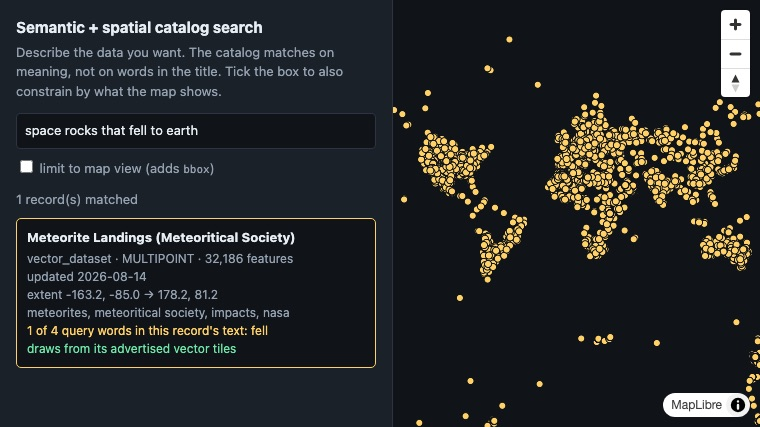
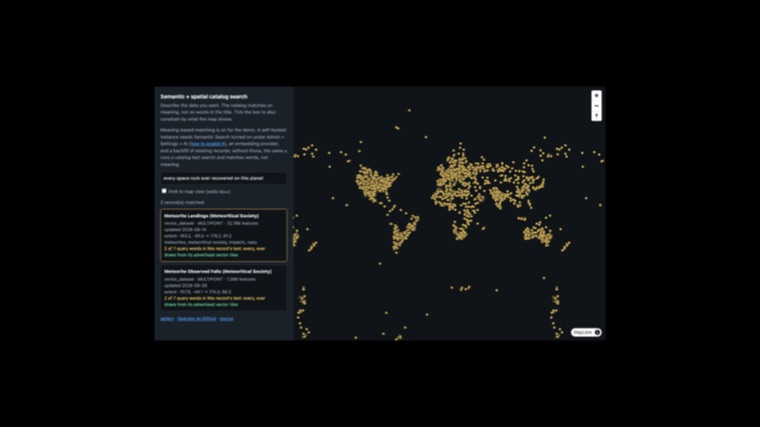
feat(maplibre): read a live PMTiles export URL straight from the demo
GeoLens 1.16.1 put CORS on the export route for anonymous browser
clients, the piece #45 noted was missing. maplibre/pmtiles-live.html
points the pmtiles protocol at the demo's Meteorite Observed Falls
export (1,096 points, a 631,691-byte archive) and range-reads it across
origins: the header, the directories, then only the tiles in view. The
same bytes=0-0 probe as the committed-file page decides the read mode,
because GeoLens may answer a range with the whole file while the
artifact is being rebuilt (geolens#1585). The committed-file page stays
as the static-hosting story; the two pages cross-link, and pmtiles.html
no longer claims the route sends no CORS headers.

Registered everywhere a page must be: README table, gallery card with a
thumb, ci/manifest.json, and a ci/fixtures.json fixture that probes the
collection and the export anonymously with a Range header, the way the
page reads it.

The dataset behind the page also moved the semantic search ranking:
"space rocks that fell to earth" now puts the Falls subset above
Meteorite Landings on both search routes, which broke every example
that takes the first hit, including the notebook's top-hit assert. The
query is now "every space rock ever recovered on this planet" in all
seven files that write it down, measured to rank Landings first on both
routes, and assets/search-catalog.jpg is re-captured with it typed in.

diff --git a/maplibre/pmtiles-live.html b/maplibre/pmtiles-live.html
@@ -1,0 +1,161 @@
+<!DOCTYPE html>
+<html lang="en">
+<head>
+  <meta charset="utf-8" />
+  <title>GeoLens + MapLibre: PMTiles from a live export URL</title>
+  <meta name="viewport" content="width=device-width, initial-scale=1" />
+  <link rel="icon" href="data:," />
+  <script src="https://unpkg.com/maplibre-gl@5.24.0/dist/maplibre-gl.js"></script>
+  <link href="https://unpkg.com/maplibre-gl@5.24.0/dist/maplibre-gl.css" rel="stylesheet" />
+  <script src="https://unpkg.com/pmtiles@4.5.0/dist/pmtiles.js"></script>
+  <style>
+    html, body, #map { margin: 0; height: 100%; }
+    /* Page shell: what this is, whether it loaded, where the data came from. */
+    #hud { position: absolute; z-index: 2; left: 10px; bottom: 10px; max-width: 46ch; padding: 8px 11px; border-radius: 6px; background: rgba(11, 14, 18, .82); color: #e6edf3; font: 13px/1.45 ui-sans-serif, system-ui, sans-serif; }
+    #hud p { margin: 3px 0 0; font-size: 12px; color: #93a1b0; }
+    #hud a { color: #4da3ff; }
+    #hud .err { color: #ff9d9d; }
+  </style>
+</head>
+<body>
+<div id="map"></div>
+<div id="hud">
+  <strong>MapLibre GL JS — PMTiles from a live export URL</strong>
+  <p id="status" role="status">Opening the live export…</p>
+  <p id="freshness"></p>
+  <p>Meteoritical Society via NASA Open Data · <a href="https://demo.getgeolens.com/datasets/dacc5f80-3ace-4cc9-a5ca-d7724a7e4bc1">dataset</a> · <a href="pmtiles.html">committed-file variant</a> · <a href="../index.html">gallery</a> · <a href="https://github.com/geolens-io/geolens">GeoLens on GitHub</a> · <a href="https://github.com/geolens-io/geolens-examples/blob/main/maplibre/pmtiles-live.html">source</a></p>
+</div>
+<script>
+  // The sibling page, pmtiles.html, commits its PMTiles file next to itself:
+  // export once, copy to any static host, GeoLens out of the serving path.
+  // This page skips the copy. The pmtiles protocol points straight at the
+  // export URL on the demo, and range-reads the archive across origins: the
+  // header, the directories, then only the tiles in view.
+  //
+  // That works because GeoLens 1.16.1 put CORS on the export route for
+  // anonymous browser clients — Access-Control-Allow-Origin on the ranged
+  // GETs, a preflight that allows the Range header, and Content-Range exposed
+  // so the client can address the file. Against an older instance the fetch
+  // dies in the browser's CORS check before a byte arrives; the committed-file
+  // page is the variant that works on any static host and any GeoLens with
+  // the export format (1.16.0 on).
+  //
+  // The trade the two pages make is freshness against custody. A committed
+  // file is a snapshot you re-export by hand; this page serves whatever the
+  // export route holds, and GeoLens stays in the serving path to do it. The
+  // whole archive is ~630 KB — 1,096 witnessed meteorite falls tiled for the
+  // browser to read a few KB at a time.
+  const GEOLENS = "https://demo.getgeolens.com";
+  const DATASET = "dacc5f80-3ace-4cc9-a5ca-d7724a7e4bc1";
+  const EXPORT_URL = `${GEOLENS}/api/datasets/${DATASET}/export?format=pmtiles`;
+
+  const status = document.getElementById("status");
+  const freshness = document.getElementById("freshness");
+  const fail = (message) => {
+    status.hidden = false;
+    status.className = "err";
+    status.textContent = message;
+  };
+
+  // Same probe as the committed-file page, for a different reason. There the
+  // question is whether the static host honours ranges at all; here GeoLens
+  // always can, but is entitled to answer a range with the whole file while
+  // the export artifact is being rebuilt (geolens#1585). bytes=0-0 asks for a
+  // single byte: on a 206 the PMTiles(url) path ranges into the route as it
+  // needs to; on a 200 the body has already been sent, so read it once into
+  // memory and say so.
+  async function loadFile() {
+    const probe = await fetch(EXPORT_URL, { headers: { range: "bytes=0-0" } });
+    if (probe.status === 206) {
+      probe.body?.cancel();
+      return { file: new pmtiles.PMTiles(EXPORT_URL), ranged: true, size: null };
+    }
+    if (!probe.ok) throw new Error(`the export answered HTTP ${probe.status}`);
+    const blob = await probe.blob();
+    return { file: new pmtiles.PMTiles(new pmtiles.FileSource(new File([blob], "export.pmtiles"))), ranged: false, size: blob.size };
+  }
+
+  const protocol = new pmtiles.Protocol();
+  maplibregl.addProtocol("pmtiles", protocol.tile);
+
+  (async () => {
+    const { file, ranged, size } = await loadFile();
+    protocol.add(file);
+
+    // The export describes itself: bounds and zooms come from its header, the
+    // source-layer name from its metadata. Nothing on this page repeats a
+    // fact the archive already carries.
+    const header = await file.getHeader();
+    const meta = await file.getMetadata();
+    const layerId = meta.vector_layers[0].id; // "data.meteorite_observed_falls_meteoritical_society"
+
+    const map = new maplibregl.Map({
+      container: "map",
+      bounds: [[header.minLon, header.minLat], [header.maxLon, header.maxLat]],
+      fitBoundsOptions: { padding: 32 },
+      style: {
+        version: 8,
+        sources: {
+          falls: { type: "vector", url: `pmtiles://${file.source.getKey()}` },
+        },
+        layers: [
+          { id: "bg", type: "background", paint: { "background-color": "#101418" } },
+          {
+            id: "meteorite-falls",
+            type: "circle",
+            source: "falls",
+            "source-layer": layerId,
+            paint: {
+              "circle-radius": 3,
+              "circle-color": "#ffd166",
+              "circle-stroke-color": "#101418",
+              "circle-stroke-width": 1,
+            },
+          },
+        ],
+      },
+    });
+    map.addControl(new maplibregl.NavigationControl());
+
+    map.on("data", (e) => {
+      if (!e.tile || e.sourceId !== "falls") return;
+      if (status.className === "err") return;
+      status.className = "";
+      status.textContent = ranged
+        ? "Range-reading the live export across origins: the header, then only the tiles in view."
+        : `The export declined the range and sent the whole file (${(size / 1024).toFixed(0)} KB) — GeoLens does that while the artifact is being rebuilt — so it was read once into memory.`;
+    });
+    map.on("error", (e) => {
+      fail(`Could not draw the export — ${e.error?.message ?? "request failed"}.`);
+      console.error("PMTiles rendering failed:", e.error ?? e);
+    });
+
+    // The export artifact is cut from the dataset and cached, so it can trail
+    // a reload the way the committed file trails an export. Ask the live
+    // catalog how many features the collection matches now and compare with
+    // what this archive was cut from.
+    try {
+      const res = await fetch(`${GEOLENS}/api/collections/${DATASET}/items?limit=1`);
+      if (!res.ok) throw new Error(`HTTP ${res.status}`);
+      const live = (await res.json()).numberMatched;
+      const cut = meta.tilestats?.layers?.[0]?.count;
+      freshness.textContent =
+        live === cut
+          ? `Live catalog check: the collection still matches the ${cut} features this export was cut from.`
+          : `Live catalog check: the collection now matches ${live} features; this export was cut from ${cut}. GeoLens rebuilds it after the dataset changes.`;
+    } catch (err) {
+      freshness.textContent = `Could not compare against the live catalog (${err.message}).`;
+    }
+  })().catch((err) => {
+    // A TypeError from fetch with nothing more to say is how every browser
+    // words a CORS refusal, which against GeoLens older than 1.16.1 is the
+    // expected way for this page to fail.
+    const cors = err instanceof TypeError
+      ? " A cross-origin read of the export route needs GeoLens 1.16.1 or later; against an older instance, use the committed-file variant (pmtiles.html)."
+      : "";
+    fail(`Could not open the live export — ${err.message}.${cors}`);
+    console.error("PMTiles open failed:", err);
+  });
+</script>
+</body>
+</html>

diff --git a/index.html b/index.html
@@ -444,6 +444,7 @@
   const STATIONS = ["Subway stations", "724bf894-dc1a-418c-abc6-555798c44d7c"];
   const DEM = ["Matterhorn DEM", "6f03bafa-34b3-4902-9351-40ce09a8181f"];
   const METEORITES = ["Meteorite landings", "6030c57b-ce37-4198-aa1e-be78e0950f53"];
+  const FALLS = ["Meteorite observed falls", "dacc5f80-3ace-4cc9-a5ca-d7724a7e4bc1"];
 
   const EXAMPLES = [
     {
@@ -465,6 +466,16 @@
       thumb: "assets/maplibre-pmtiles.jpg",
       live: "maplibre/pmtiles.html", source: "maplibre/pmtiles.html",
       datasets: [LINES],
+    },
+    {
+      audience: "web-developer", group: "tiles", tool: "MapLibre GL JS 5 + pmtiles 4.5",
+      title: "PMTiles from a live export URL",
+      blurb: "The same protocol pointed straight at the export route, no file committed. The export route serves CORS from GeoLens 1.16.1 on, so the browser range-reads the live archive across origins.",
+      tag: "PMTiles", kind: "vector",
+      address: "/api/datasets/{id}/export?format=pmtiles",
+      thumb: "assets/maplibre-pmtiles-live.jpg",
+      live: "maplibre/pmtiles-live.html", source: "maplibre/pmtiles-live.html",
+      datasets: [FALLS],
     },
     {
       audience: "web-developer", group: "features", tool: "MapLibre GL JS 5",
@@ -603,7 +614,7 @@
     {
       audience: "web-developer", group: "search", tool: "MapLibre GL JS 5 · fetch",
       title: "Semantic search over the catalog",
-      blurb: "Type what the data is about. The query runs against embeddings, so \"space rocks that fell to earth\" finds the meteorite dataset with none of those words in its title. Tick the box and the map's bounds filter the same query by record extent.",
+      blurb: "Type what the data is about. The query runs against embeddings, so \"every space rock ever recovered on this planet\" finds the meteorite dataset with none of those words in its title. Tick the box and the map's bounds filter the same query by record extent.",
       tag: "Search", kind: "vector",
       address: "/api/collections/datasets/items?q=...&bbox=...",
       thumb: "assets/search-catalog.jpg",

diff --git a/maplibre/pmtiles.html b/maplibre/pmtiles.html
@@ -23,7 +23,7 @@
   <strong>MapLibre GL JS — PMTiles, no tile server</strong>
   <p id="status" role="status">Opening subway-lines.pmtiles…</p>
   <p id="freshness"></p>
-  <p>MTA via data.ny.gov · <a href="https://demo.getgeolens.com/datasets/de602fbe-8b30-4755-924f-c9e7fd9613b6">dataset</a> · <a href="../index.html">gallery</a> · <a href="https://github.com/geolens-io/geolens">GeoLens on GitHub</a> · <a href="https://github.com/geolens-io/geolens-examples/blob/main/maplibre/pmtiles.html">source</a></p>
+  <p>MTA via data.ny.gov · <a href="https://demo.getgeolens.com/datasets/de602fbe-8b30-4755-924f-c9e7fd9613b6">dataset</a> · <a href="pmtiles-live.html">live-URL variant</a> · <a href="../index.html">gallery</a> · <a href="https://github.com/geolens-io/geolens">GeoLens on GitHub</a> · <a href="https://github.com/geolens-io/geolens-examples/blob/main/maplibre/pmtiles.html">source</a></p>
 </div>
 <script>
   // The tiles on this page come from one static file, not from a server that
@@ -45,10 +45,12 @@
   //    file; loadFile() below probes once and falls back to reading it into
   //    memory, and the status line says which mode this page got. GitHub
   //    Pages, S3, nginx and Caddy all answer 206.
-  //  - The file is committed here rather than fetched live from the export
-  //    URL, because that route sends no CORS headers yet, so a cross-origin
-  //    browser fetch of it fails (geolens#1698). Same-origin static hosting
-  //    is the intended shape regardless.
+  //  - The file is committed here because a copy you own is the point of the
+  //    exercise: same-origin static hosting, on any host, with GeoLens out of
+  //    the serving path. From GeoLens 1.16.1 the export route also serves
+  //    CORS to anonymous browser clients (geolens#1698), so the pmtiles
+  //    protocol can read a live export URL directly instead of a copy —
+  //    pmtiles-live.html is that variant.
   const GEOLENS = "https://demo.getgeolens.com";
   const DATASET = "de602fbe-8b30-4755-924f-c9e7fd9613b6";
   const FILE = "subway-lines.pmtiles";

diff --git a/search/catalog.html b/search/catalog.html
@@ -63,7 +63,7 @@
     the same <code>q</code> runs a catalog text search and matches words, not
     meaning.</p>
   <form id="form">
-    <input id="q" type="search" value="space rocks that fell to earth"
+    <input id="q" type="search" value="every space rock ever recovered on this planet"
            aria-label="Search the catalog" />
     <label><input id="spatial" type="checkbox" /> limit to map view (adds <code>bbox</code>)</label>
   </form>
@@ -83,7 +83,7 @@
   const GEOLENS = "https://demo.getgeolens.com";
 
   // `q` runs the query against embeddings the server keeps in pgvector, so it
-  // matches meaning: "space rocks that fell to earth" returns the meteorite
+  // matches meaning: "every space rock ever recovered on this planet" returns the meteorite
   // dataset with none of those words in its title, description or keywords.
   //
   // That is the demo. On a self-hosted instance semantic search is off by
@@ -103,7 +103,7 @@
   //
   // Same query from Python, where CORS does not apply — python/sdk-catalog.py:
   //
-  //   search.sync_detailed(client=client, q="space rocks that fell to earth", limit=5)
+  //   search.sync_detailed(client=client, q="every space rock ever recovered on this planet", limit=5)
   //
   // A standards client can filter this same collection with CQL2 instead, which
   // is literal rather than semantic and is the right tool once you know the

diff --git a/python/sdk-catalog.py b/python/sdk-catalog.py
@@ -76,7 +76,7 @@ API_KEY = os.environ.get("GEOLENS_API_KEY") or None
 
 # Search runs over embeddings of each record's text, so this matches on meaning
 # rather than words. None of these five words appears in the title it finds.
-QUERY = "space rocks that fell to earth"
+QUERY = "every space rock ever recovered on this planet"
 
 # The filter runs in PostGIS, not here. Plain SQL against the dataset's own
 # columns, which is why the schema step above it is not decoration: mass_kg is

diff --git a/README.md b/README.md
@@ -8,7 +8,7 @@
 [GeoLens](https://github.com/geolens-io/geolens) is a self-hosted spatial data hub: catalog, search, maps, analysis, and open APIs over data that stays on your own infrastructure. This repo holds copy-paste integrations for the tools your stack already uses. Every browser, Python, and DuckDB example reads the public demo anonymously, so you clone, open, and see it run; one constant at the top points it at your own instance. The exception is [`cli/`](cli/), which publishes to a catalog and so runs against your own instance with a credential.
 
 <p align="center">
-  <a href="https://geolens-io.github.io/geolens-examples/search/catalog.html"><img src="assets/search-catalog.jpg" width="32%" alt="Semantic catalog search: the phrase 'space rocks that fell to earth' matches the meteorite landings dataset, drawn on the map beside the result card" /></a>
+  <a href="https://geolens-io.github.io/geolens-examples/search/catalog.html"><img src="assets/search-catalog.jpg" width="32%" alt="Semantic catalog search: the phrase 'every space rock ever recovered on this planet' matches the meteorite landings dataset, drawn on the map beside the result card" /></a>
   <a href="qgis/"><img src="assets/qgis-window.jpg" width="32%" alt="QGIS showing the demo's subway stations and lines over OGC API Features, and the Matterhorn DEM as XYZ tiles" /></a>
   <a href="https://geolens-io.github.io/geolens-examples/embed/iframe.html"><img src="assets/embed-iframe.jpg" width="32%" alt="A saved GeoLens map, Restless Earth, embedded in an iframe on a plain page with its legend and styling intact" /></a>
 </p>
@@ -44,6 +44,7 @@ The table below is arranged by tool; the numbered steps here trace the platform 
 | [`maplibre/features-viewport.html`](maplibre/features-viewport.html) | MapLibre GL JS 5.x | Features by viewport: `bbox`, `rel="next"` paging, cancellation, and the cap where vector tiles take over | [Live](https://geolens-io.github.io/geolens-examples/maplibre/features-viewport.html) |
 | [`maplibre/imagery.html`](maplibre/imagery.html) | MapLibre GL JS 5.x | Raster tiles through a WebGL texture (needs CORS) | [Live](https://geolens-io.github.io/geolens-examples/maplibre/imagery.html) |
 | [`maplibre/pmtiles.html`](maplibre/pmtiles.html) | MapLibre GL JS 5.x + pmtiles 4.5 | A PMTiles export as one committed static file: range reads where the host answers 206, no tile server either way | [Live](https://geolens-io.github.io/geolens-examples/maplibre/pmtiles.html) |
+| [`maplibre/pmtiles-live.html`](maplibre/pmtiles-live.html) | MapLibre GL JS 5.x + pmtiles 4.5 | The same protocol pointed straight at a live export URL, no file committed: cross-origin range reads, served with CORS from GeoLens 1.16.1 on | [Live](https://geolens-io.github.io/geolens-examples/maplibre/pmtiles-live.html) |
 | [`arcgis-js/features.html`](arcgis-js/features.html) | ArcGIS Maps SDK for JavaScript 5.1 | `OGCFeatureLayer` against the OGC API landing page | [Live](https://geolens-io.github.io/geolens-examples/arcgis-js/features.html) |
 | [`arcgis-js/imagery.html`](arcgis-js/imagery.html) | ArcGIS Maps SDK for JavaScript 5.1 | `WebTileLayer` with Esri's `{level}/{col}/{row}` names | [Live](https://geolens-io.github.io/geolens-examples/arcgis-js/imagery.html) |
 | [`openlayers/features.html`](openlayers/features.html) | OpenLayers 10 | OGC API Features, CRS84 reprojected on read | [Live](https://geolens-io.github.io/geolens-examples/openlayers/features.html) |

diff --git a/python/README.md b/python/README.md
@@ -124,7 +124,7 @@ Reading https://demo.getgeolens.com ...
 
                        GEOLENS CATALOG
 --------------------------------------------------------------
-  asked for           'space rocks that fell to earth'
+  asked for           'every space rock ever recovered on this planet'
   matched                      1   record
 
   Meteorite Landings (Meteoritical Society)
@@ -163,7 +163,7 @@ Reading https://demo.getgeolens.com ...
 
 ### What it shows
 
-**Search matches meaning, not words.** `space rocks that fell to earth` finds
+**Search matches meaning, not words.** `every space rock ever recovered on this planet` finds
 *Meteorite Landings* even though none of those five words is in the title. GeoLens
 embeds each record's text at ingest and searches the vectors, so the query is a
 description of the data rather than a guess at its filename.
